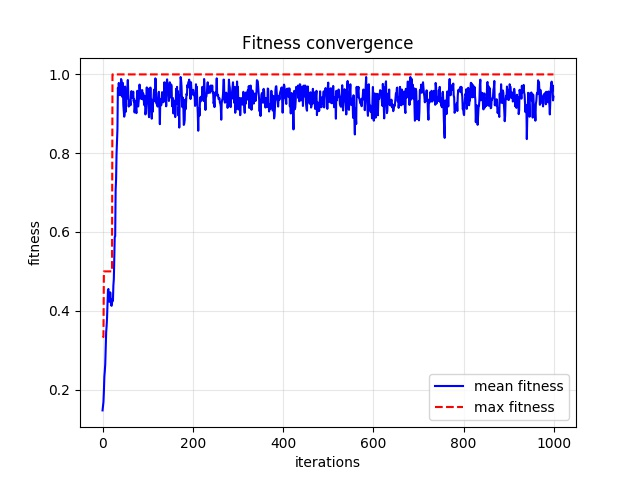
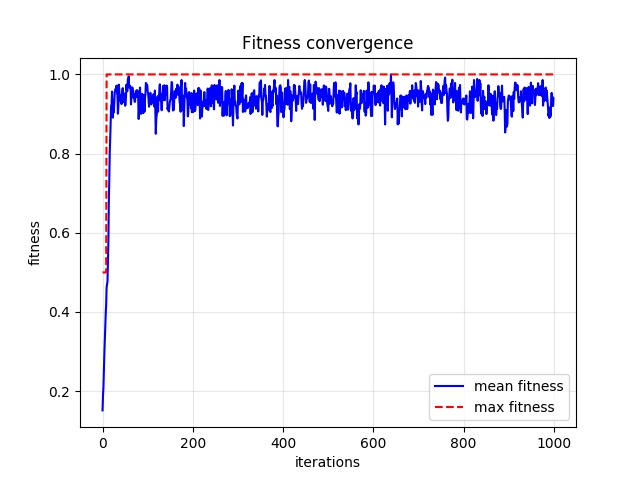
Correct mutation
Change mutation to avoid genes to swap with themselves.

diff --git a/n_queens/genetic_algorithm.py b/n_queens/genetic_algorithm.py
@@ -6,7 +6,7 @@ class GeneticAlgorithm:
     """
     Genetic algorithm for TSP.
     """
-    def __init__(self, board_size, num_iterations, population_size, offspring_size, mutation_rate, random_seed):
+    def __init__(self, board_size=8, num_iterations=1000, population_size=100, offspring_size=20, mutation_rate=0.2):
         """
         Initializes the algorithm.
         """
@@ -15,7 +15,6 @@ class GeneticAlgorithm:
         self.population_size = population_size
         self.offspring_size = offspring_size
         self.mutation_rate = mutation_rate
-        np.random.seed(random_seed)
         assert self.offspring_size < self.population_size, "Population size has to be greater than the number of selected individuals"
 
     def __repr__(self):
@@ -103,7 +102,7 @@ class GeneticAlgorithm:
         Args:
             individual (np.array): Individual to be mutated.
         """
-        gene1, gene2 = np.random.randint((self.board_size, 2))
+        gene1, gene2 = np.random.choice(self.board_size, size=(2, 1), replace=False)
         individual[gene1], individual[gene2] = individual[gene2], individual[gene1]
 
     def generate_next_population(self, population):

diff --git a/run.py b/run.py
@@ -1,6 +1,11 @@
 from n_queens.genetic_algorithm import GeneticAlgorithm
 from n_queens.utils import print_board
+from numpy.random import seed
 import matplotlib.pyplot as plt
+
+# Set random seed (for reproducibility)
+random_seed = 1234
+seed(random_seed)
 
 # Initialize parameters
 board_size = 12
@@ -8,10 +13,9 @@ num_iterations = 1000
 population_size = 100
 offspring_size = 20
 mutation_rate = 0.2
-random_seed = 1234  # For reproducibility
 
 # Initialize genetic algorithm
-ga = GeneticAlgorithm(board_size, num_iterations, population_size, offspring_size, mutation_rate, random_seed)
+ga = GeneticAlgorithm(board_size, num_iterations, population_size, offspring_size, mutation_rate)
 
 # Run algorithm
 solutions, max_fitness, mean_fitness = ga.run()
